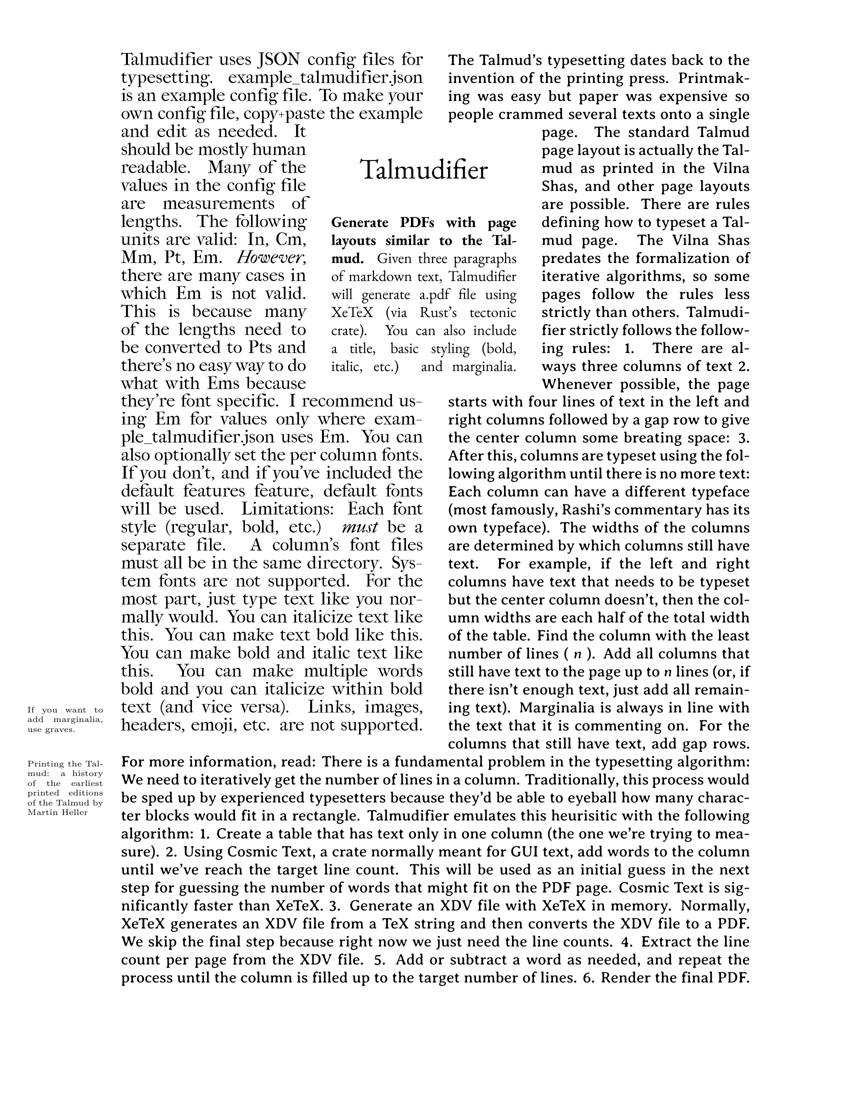
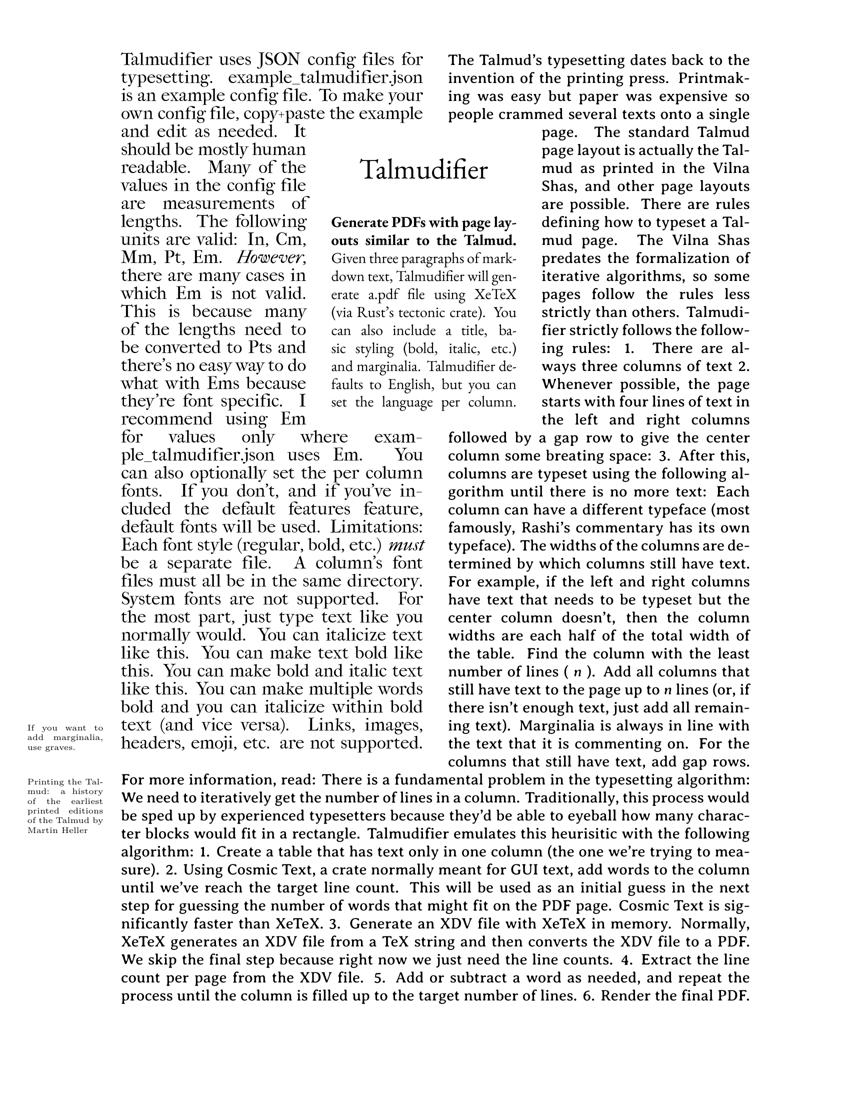
updated image

Changed region(s): [[0.0306, 0.1855, 0.8871, 0.9273]]

diff --git a/README.md b/README.md
@@ -36,7 +36,7 @@ write("out.pdf", &daf.pdf).unwrap();
 
 ## Download talmudifier
 
-On this webpage, there is a **Releases** sidebar. Click that, and download Talmudifier.
+On the GitHub repo, there is a **Releases** sidebar. Click that, and download Talmudifier.
 
 Open a terminal. You first need to change directory to Downloads (or wherever Talmudifier actually is), so:
 

diff --git a/doc/README_rs.md b/doc/README_rs.md
@@ -38,7 +38,7 @@ write("out.pdf", &daf.pdf).unwrap();
 
 ## Download talmudifier
 
-On this webpage, there is a **Releases** sidebar. Click that, and download Talmudifier.
+On the GitHub repo, there is a **Releases** sidebar. Click that, and download Talmudifier.
 
 Open a terminal. You first need to change directory to Downloads (or wherever Talmudifier actually is), so:
 
